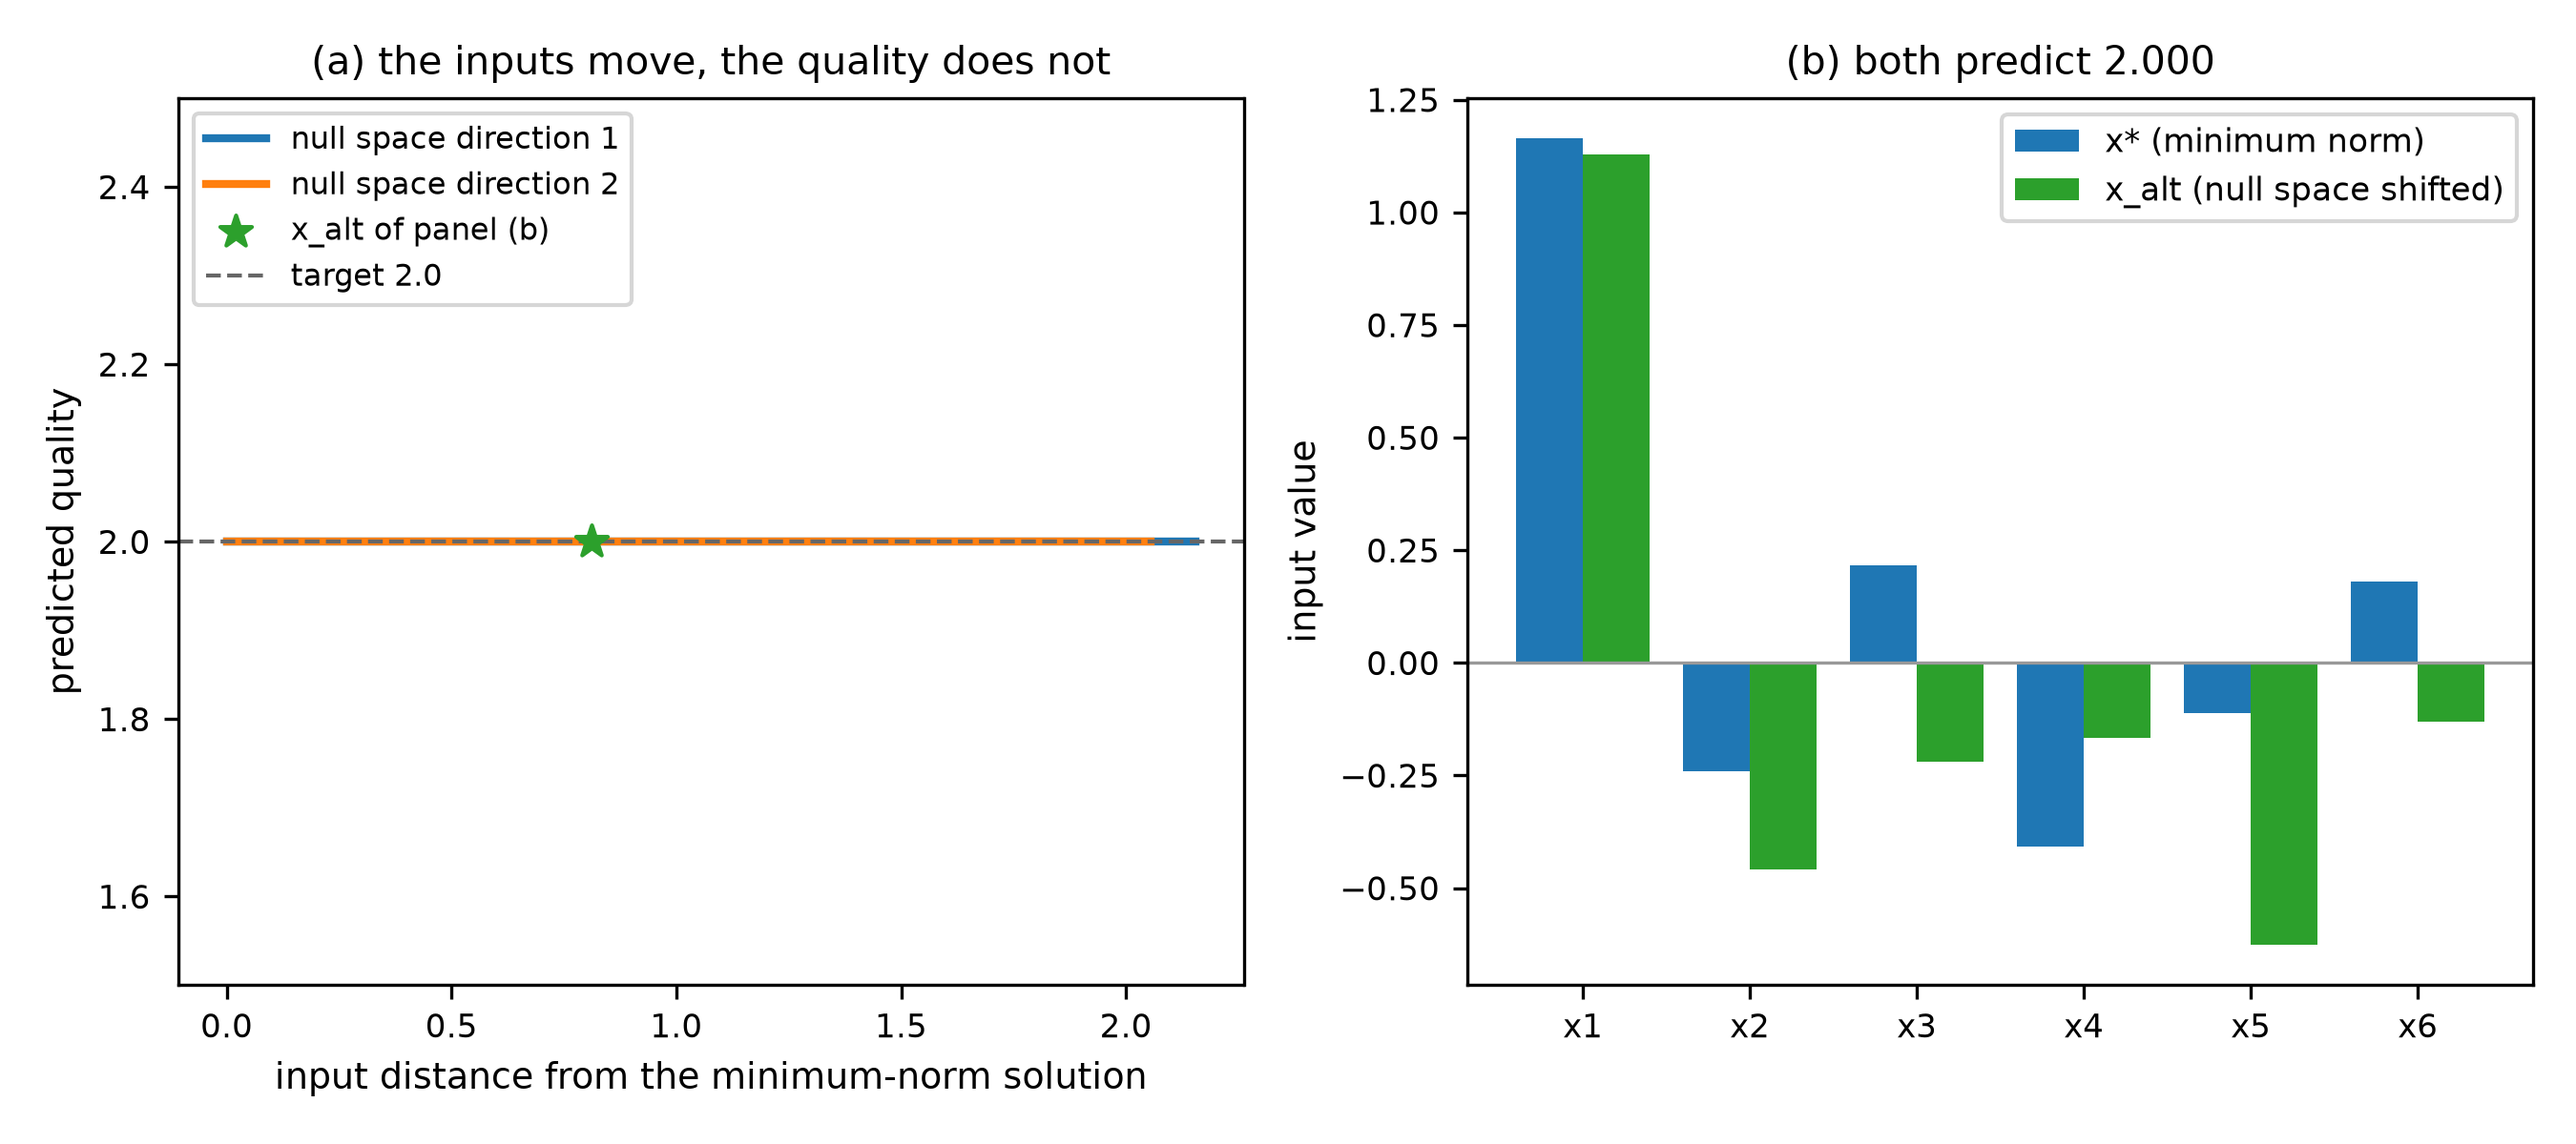
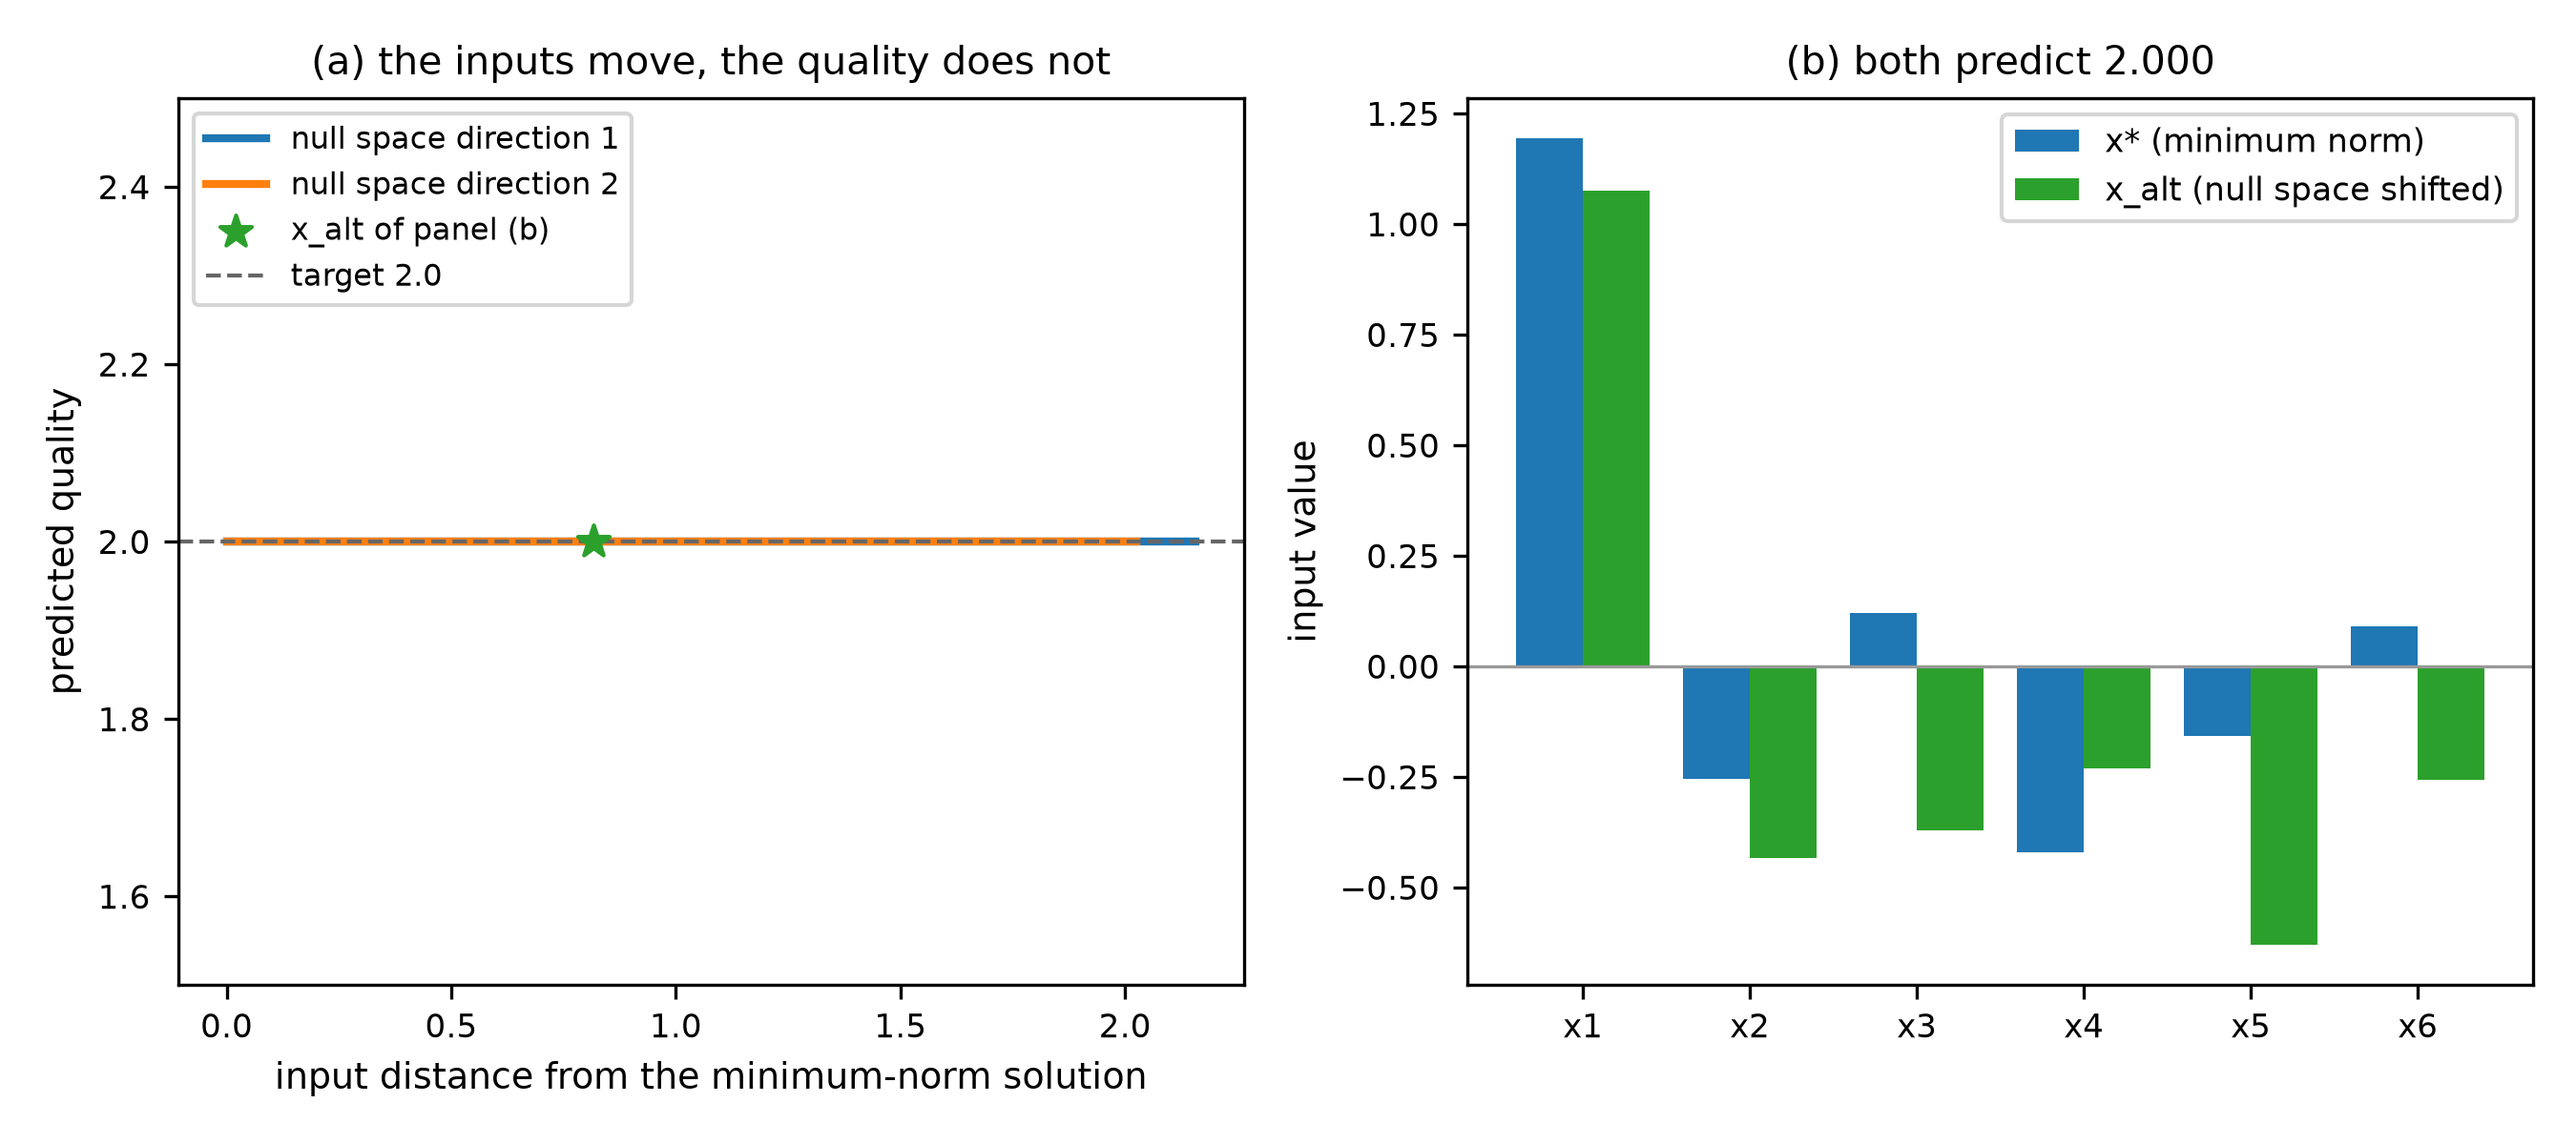
docs(Inversion-Problem): give the Appendix B example a model that misses
The old noise was 0.05, so the parity plot was a straight line and said
nothing. At 1.3 the fit lands at R2 0.704 and the plot carries its point:
the inverted condition is only as good as the forward model.

Define what the axes of both figures hold — a point of the parity plot is
one sample, a point of the null space curve is one input vector built by
stepping along a null direction.

diff --git a/Models/Inversion-Problem/inversion-problem.md b/Models/Inversion-Problem/inversion-problem.md
@@ -1,5 +1,5 @@
 # Inverse Problem and Model Inversion
-Rev. 5 | Created: 2026-08-28 | Updated: 2026-08-29 00:21 CDT
+Rev. 6 | Created: 2026-08-28 | Updated: 2026-08-29 00:24 CDT
 
 학습된 model 은 보통 입력에서 출력을 계산하는 방향으로 쓰인다. 원하는 출력을 먼저 정하고 그것을 만들어 내는 입력을 되찾는 문제가 inverse problem 이고, 이미 학습된 model 을 그 목적에 되돌려 쓰는 방법이 model inversion 이다. 이 문서는 두 용어를 정의하고, 해법을 다섯 축으로 분류한 다음, latent variable model inversion 의 고전적 결과와 model 종류별 inversion 방법을 정리한다.
 
@@ -331,7 +331,7 @@ rng = np.random.default_rng(0)
 # historical plant data: 6 process inputs, 1 quality output
 n, k, n_comp = 60, 6, 3
 X = rng.normal(size=(n, k))
-y = 1.5 * X[:, 0] - 0.8 * X[:, 1] + 0.3 * X[:, 2] + rng.normal(0, 0.05, n)
+y = 1.5 * X[:, 0] - 0.8 * X[:, 1] + 0.3 * X[:, 2] + rng.normal(0, 1.3, n)
 
 x_mean, y_mean = X.mean(axis=0), y.mean()
 pls = PLSRegression(n_components=n_comp, scale=False).fit(X - x_mean, y - y_mean)
@@ -358,7 +358,9 @@ print("pred(x_alt)    :", round(predict(x_alt), 6))
 print("distance       :", round(float(np.linalg.norm(x_star - x_alt)), 3))
 ```
 
-뒤집기 전에 뒤집을 model 부터 본다. Fig 3 은 학습에 쓴 60 개 표본의 측정 품질과 예측 품질을 맞댄 parity plot 이다. 점들이 1:1 선에 붙어 있고 ($R^{2} = 0.9992$, RMSE 0.053) 목표 2.0 이 표본이 덮는 범위 안에 있으므로, 이 model 을 뒤집어 얻은 조건은 외삽이 아니다.
+뒤집기 전에 뒤집을 model 부터 본다. Fig 3 은 학습에 쓴 60 개 표본의 parity plot 이며, 점 하나가 표본 하나이다. 가로축은 그 표본의 측정 품질 $y$ 이고 세로축은 같은 표본에 대한 model 의 예측 $\hat{y}$ 이므로, 점이 1:1 선 위에 있으면 그 표본을 정확히 맞춘 것이고 선에서 세로로 벗어난 거리가 그 표본의 잔차 $y - \hat{y}$ 이다.
+
+이 예시의 model 은 $R^{2} = 0.704$, RMSE 1.21 로 잘 맞는 편이 아니다. 목표 2.0 은 표본이 덮는 $-5.7$ 에서 $4.3$ 안에 있어 외삽은 아니지만, 뒤집어 얻은 조건이 실제로 낼 품질은 RMSE 만큼 흔들린다. Inversion 의 정확도는 forward model 의 정확도를 넘지 못하므로, 이 그림을 먼저 보고 뒤집을지를 정한다.
 
 <img src="inversion-problem_fig/appendix-b-parity.png" width="520" style="max-width: 100%;" alt="Fig 3">
 
@@ -366,7 +368,7 @@ Fig 3. Parity plot of the Appendix B forward model
 
 두 입력은 서로 다르지만 예측 품질은 같다. 어느 쪽을 쓸지는 품질이 아니라 원가나 운전 여유 같은 다른 기준이 정한다.
 
-Fig 4 는 이 결과를 그린 것이다. 왼쪽의 가로축은 최소 노름 해에서 잰 입력 공간의 거리 $\lVert \mathbf{x} - \mathbf{x}^{\ast} \rVert$ 이고 세로축은 그 입력에 대한 예측 품질이며, 두 null space 방향 어느 쪽으로 걸어도 입력만 멀어질 뿐 품질은 목표 2.0 에 붙어 있다. 오른쪽은 그 걸음의 한 지점인 `x_alt` 를 최소 노름 해와 나란히 놓은 것이며, 여섯 입력의 값이 모두 다른데도 예측은 같은 2.000 이다.
+Fig 4 는 이 결과를 그린 것이다. 왼쪽 곡선 위의 한 점은 null space 방향 $\mathbf{n}$ 으로 $\alpha$ 만큼 움직여 만든 입력 $\mathbf{x}(\alpha) = \mathbf{P}(\mathbf{t}^{\ast} + \alpha \mathbf{n}) + \bar{\mathbf{x}}$ 하나이며, $\bar{\mathbf{x}}$ 는 입력의 평균이다. 가로축은 그 입력이 최소 노름 해에서 떨어진 거리 $\lVert \mathbf{x}(\alpha) - \mathbf{x}^{\ast} \rVert$ 이고, 세로축은 그 입력을 model 에 넣어 얻은 예측 품질이다. 두 null space 방향 어느 쪽으로 걸어도 입력만 멀어질 뿐 품질은 목표 2.0 에 붙어 있다. 오른쪽은 그 걸음의 한 지점인 `x_alt` 를 최소 노름 해와 나란히 놓은 것이며, 여섯 입력의 값이 모두 다른데도 예측은 같은 2.000 이다.
 
 <img src="inversion-problem_fig/appendix-b-null-space.png" width="900" style="max-width: 100%;" alt="Fig 4">
 
